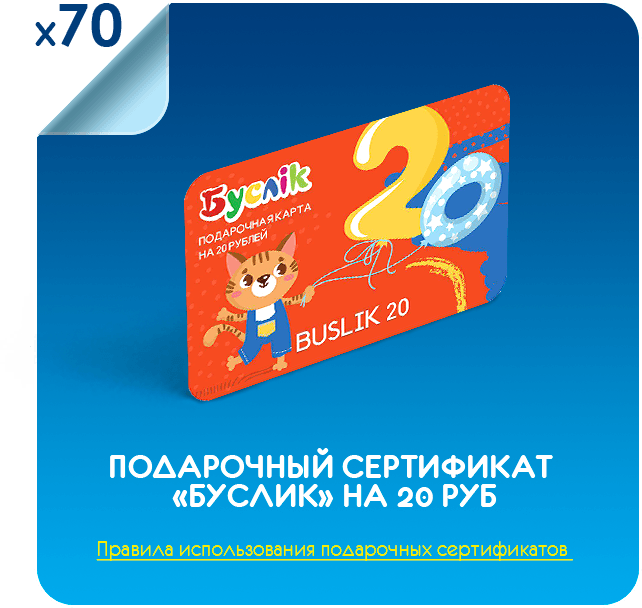
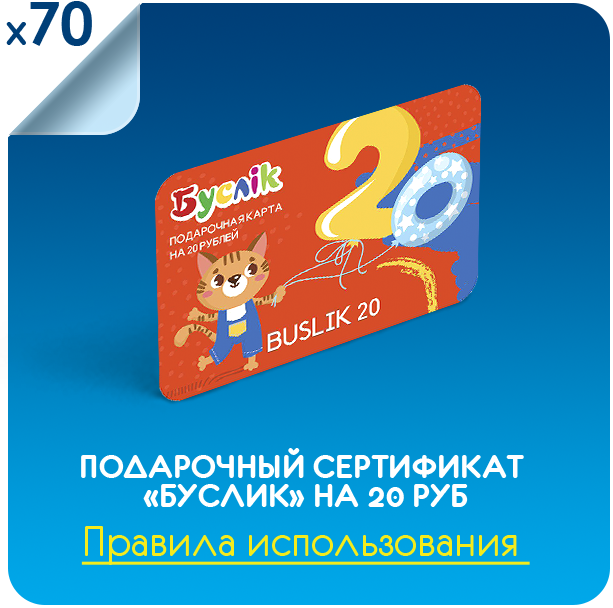
Учтены правки по состоянию на 18.10.2019. Ссылки на правила ведут в папку /rules в корне тестового сервера

diff --git a/src/components/FooterComponent.vue b/src/components/FooterComponent.vue
@@ -1,11 +1,12 @@
 <template lang="pug">
     b-row.d-flex.align-items-center.m-0.p-5.footer
         b-col.mx-auto.text-center( cols="12" xl="7" )
-            p.footer-small Дополнительную информацию о рекламной игре можно получить по телефону&nbsp;
+            p.footer-small.txt-footer Дополнительную информацию о рекламной игре можно получить по телефону <br>&nbsp;
                 a.link( href="tel:375293224252" ) +375 (29) 322-42-52 &nbsp;
                 span и по почте&nbsp;
                 a.link( href="mailto:info_igra@mail.ru" ) info_igra@mail.ru
-            p.footer-small.text-justify Рекламная игра «Мобильная мама ». Срок проведения: с 21 октября 2019 года по 30 декабря 2019 года. ООО «Проспектпресс», УНП 101520868. Свидетельство о государственной регистрации №  от 17.10.2019 года, выданное Министерством антимонопольного регулирования и торговли Республики Беларусь.
+                p.footer-small.txt-yel Время работы горячей линии: с 9.00 до 21.00 ПН-ПТ, с 10.00 до 18.00 СБ-ВС.
+            p.footer-small.text-justify.txt-footer-s Рекламная игра «Мобильная мама». Срок проведения: с 21 октября 2019 года по 30 декабря 2019 года. ООО «Проспектпресс», УНП 101520868. Свидетельство о государственной регистрации № 3652 от 16.10.2019 года, выданное Министерством антимонопольного регулирования и торговли Республики Беларусь.
 </template>
 
 <script>
@@ -15,5 +16,15 @@
 </script>
 
 <style scoped>
+.txt-yel {
+    color:#fddb00;
+    font-size: 1.4em!important;
+}
+.txt-footer {
+    font-size: 1.4em!important;
+}
+.txt-footer-s {
+    font-size: 1.05em!important;
+}
 
 </style>

diff --git a/src/views/Home.vue b/src/views/Home.vue
@@ -4,7 +4,7 @@
             b-col.mx-auto.text-center.p-0.pt-5.p-xl-0.mt-5.my-xl-auto( cols="12" xl="11" )
                 img.img-fluid.mt-5.my-xl-0( v-if="!mobile" src="@/assets/images/gift.png" )
                 img.img-fluid.mt-5.my-xl-0( v-else src="@/assets/images/gift-mobile.png" )
-            b-col.mx-auto.p-0.upper.mb-3( cols="10" xl="11" )
+            b-col.mx-auto.p-0.upper.mb-3.rules-cards( cols="10" xl="11" )
                 b-row.m-0
                     b-col.mx-auto.text-center( xl="12" )
                         p.h3.conditions.text-uppercase.color Условия игры
@@ -12,7 +12,8 @@
                     b-col.mx-auto.p-0.text-center( cols="11" xl="3" v-for="(image, i) in images" :key="i")
                         img.img-fluid( :src="image" )
                     b-col.mx-auto.text-center.my-3( xl="12" )
-                        router-link.color.rules.h4( to="/rules" ) Правила игры
+                        //- router-link.color.rules.h4( to="/rules" ) Правила игры
+                        b-link.color.rules.h4( href="/rules/rules-game.pdf" target="_blank") Правила игры
                     b-col.p-0.mx-auto.text-center( cols="10" xl="12" )
                         img.img-fluid( :src="mobile ? './images/highmesure-mobile.png' : './images/highmesure.png'" )
                     b-col.mx-auto.p-0.text-center( cols="10" xl="12" )
@@ -47,3 +48,9 @@
         }
     }
 </script>
+
+<style scoped>
+.rules-cards {
+    margin-top: -12em;
+}
+</style>

diff --git a/src/components/MainNavbar.vue b/src/components/MainNavbar.vue
@@ -2,12 +2,12 @@
     b-navbar.bg-transparent.w-100.position-absolute( style="top: 0" )
         b-row.w-100.m-0.p-0
             b-col.mx-auto.text-center.text-xl-left( cols="10" xl="6" style="z-index: 1000")
-                b-navbar-brand.p-xl-5(
+                b-navbar-brand.p-xl-5.logo-img(
                     href="https://buslik.by/catalog/pitanie_i_kormlenie/soki_i_napitki/kakao/" )
                     img.img-fluid( v-if="!mobile" src="@/assets/images/ns-logo.png" )
                     img.img-fluid( v-else src="@/assets/images/ns-logo-mobile.png" )
             b-col.mx-auto.text-center.text-xl-right( cols="10" xl="6" style="z-index: 1000")
-                b-navbar-brand.p-xl-5.ml-auto(
+                b-navbar-brand.p-xl-5.ml-auto.logo-img(
                     href="https://buslik.by/" )
                     img.img-fluid( v-if="!mobile" src="@/assets/images/stork.png" )
                     img.img-fluid( v-else src="@/assets/images/stork-mobile.png" )
@@ -21,3 +21,21 @@
         }
     }
 </script>
+
+<style scoped>
+@media (min-width: 1920px) and (max-width: 1999px){
+    .logo-img img {
+    min-height:6rem!important;
+    }
+}
+@media (min-width: 2000px){
+    .logo-img img {
+    min-height:8rem!important;
+    }
+}
+@media (min-width: 3500px){
+    .logo-img img {
+    min-height:10rem!important;
+    }
+}
+</style>

diff --git a/src/components/RegisterComponent.vue b/src/components/RegisterComponent.vue
@@ -40,7 +40,7 @@
                     p-check.pretty.p-image.p-plain.p-smooth.p-bigger.mr-0( v-model="accept")
                         img.image( slot="extra" src="@/assets/images/check.png" )
                         | Я ознакомлен и согласен с&nbsp;
-                    router-link( to="/rules" ) правилами рекламной игры
+                    b-link.color.rules( href="/rules/rules-game.pdf" target="_blank") правилами рекламной игры
                 b-form-group.my-2.my-xl-4.text-center
                     b-button.register( v-if="needCheck" type="submit" size="lg" variant="info" :disabled="!accept") Зарегистрировать
                     b-button( v-else type="submit" size="lg" variant="info" ) Зарегистрировать

diff --git a/src/components/FaqComponent.vue b/src/components/FaqComponent.vue
@@ -1,5 +1,5 @@
 <template lang="pug">
-    b-col.mx-auto.text-white.my-3.p-0.p-xl-3( cols="11" xl="9" )
+    b-col.mx-auto.text-white.my-3.p-0.p-xl-3.faq-comp( cols="11" xl="9" )
         b-card.p-0.border-0.bg-transparent.my-3( no-body v-for="(question, i) in faq" :key="i" )
             b-card-header.border-0.bg-transparent( header-tag="header" class="p-0" role="tab" )
                 b-button.faq( block @click="$root.$emit('bv::toggle::collapse', `answer_${i}`)" ) {{ question.title }}
@@ -20,5 +20,17 @@
 </script>
 
 <style scoped>
+button {
+  text-transform: none;
+  font-size: 1.5rem!important;
+  line-height: 1.4!important;
+  }
+.faq-comp {
+      margin-top: -2em!important;
+  }
+.faq {
+    font-size: 1.2rem;
+    line-height: 1;
+}
 
 </style>

diff --git a/src/router/router.js b/src/router/router.js
@@ -17,7 +17,10 @@ const router = new Router({
     {
       path: '/rules',
       name: 'rules',
-      component: () => import('../views/Rules.vue')
+      beforeEnter() {                    
+        window.open("https://nesquik.specproagency.by/rules/rules-cert.pdf", 
+        '_blank');
+    } 
     },
     {
       path: '/login',

diff --git a/vue.config.js b/vue.config.js
@@ -1,5 +1,7 @@
 module.exports = {
     devServer: {
         proxy: `${process.env.VUE_APP_API_URL}`
+        //clientLogLevel: 'info'
+        
     }
 };
